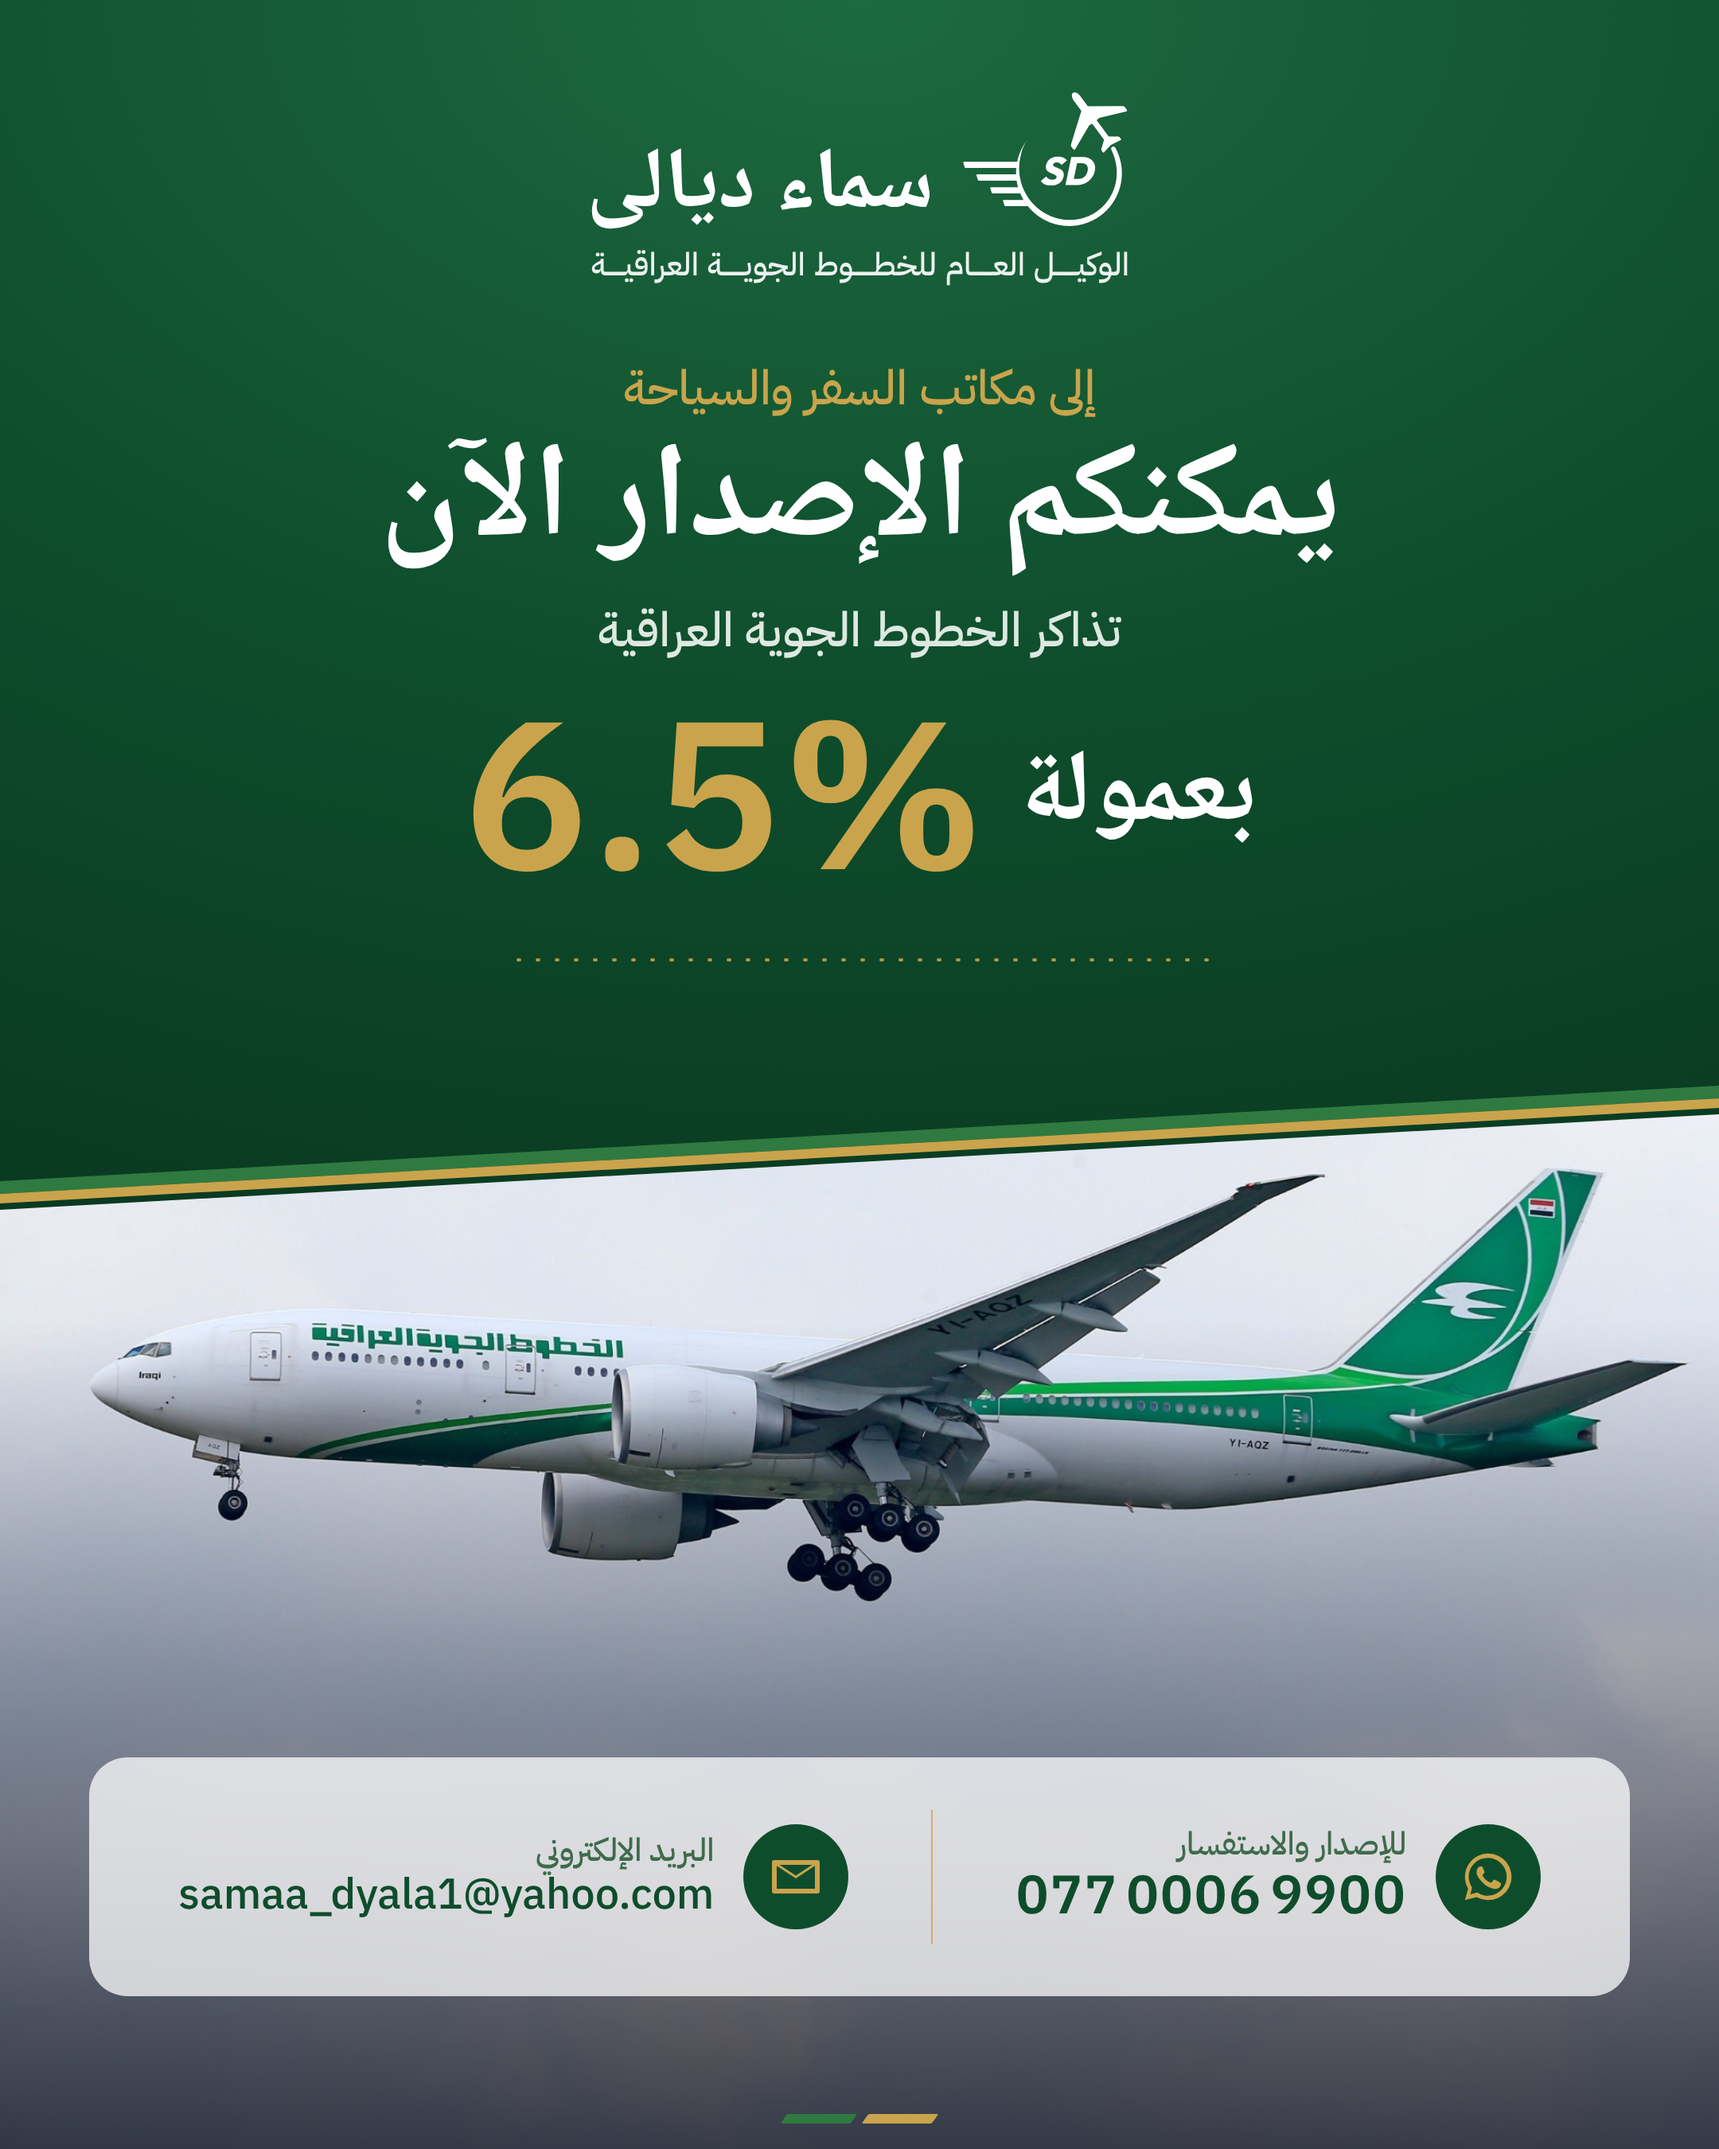
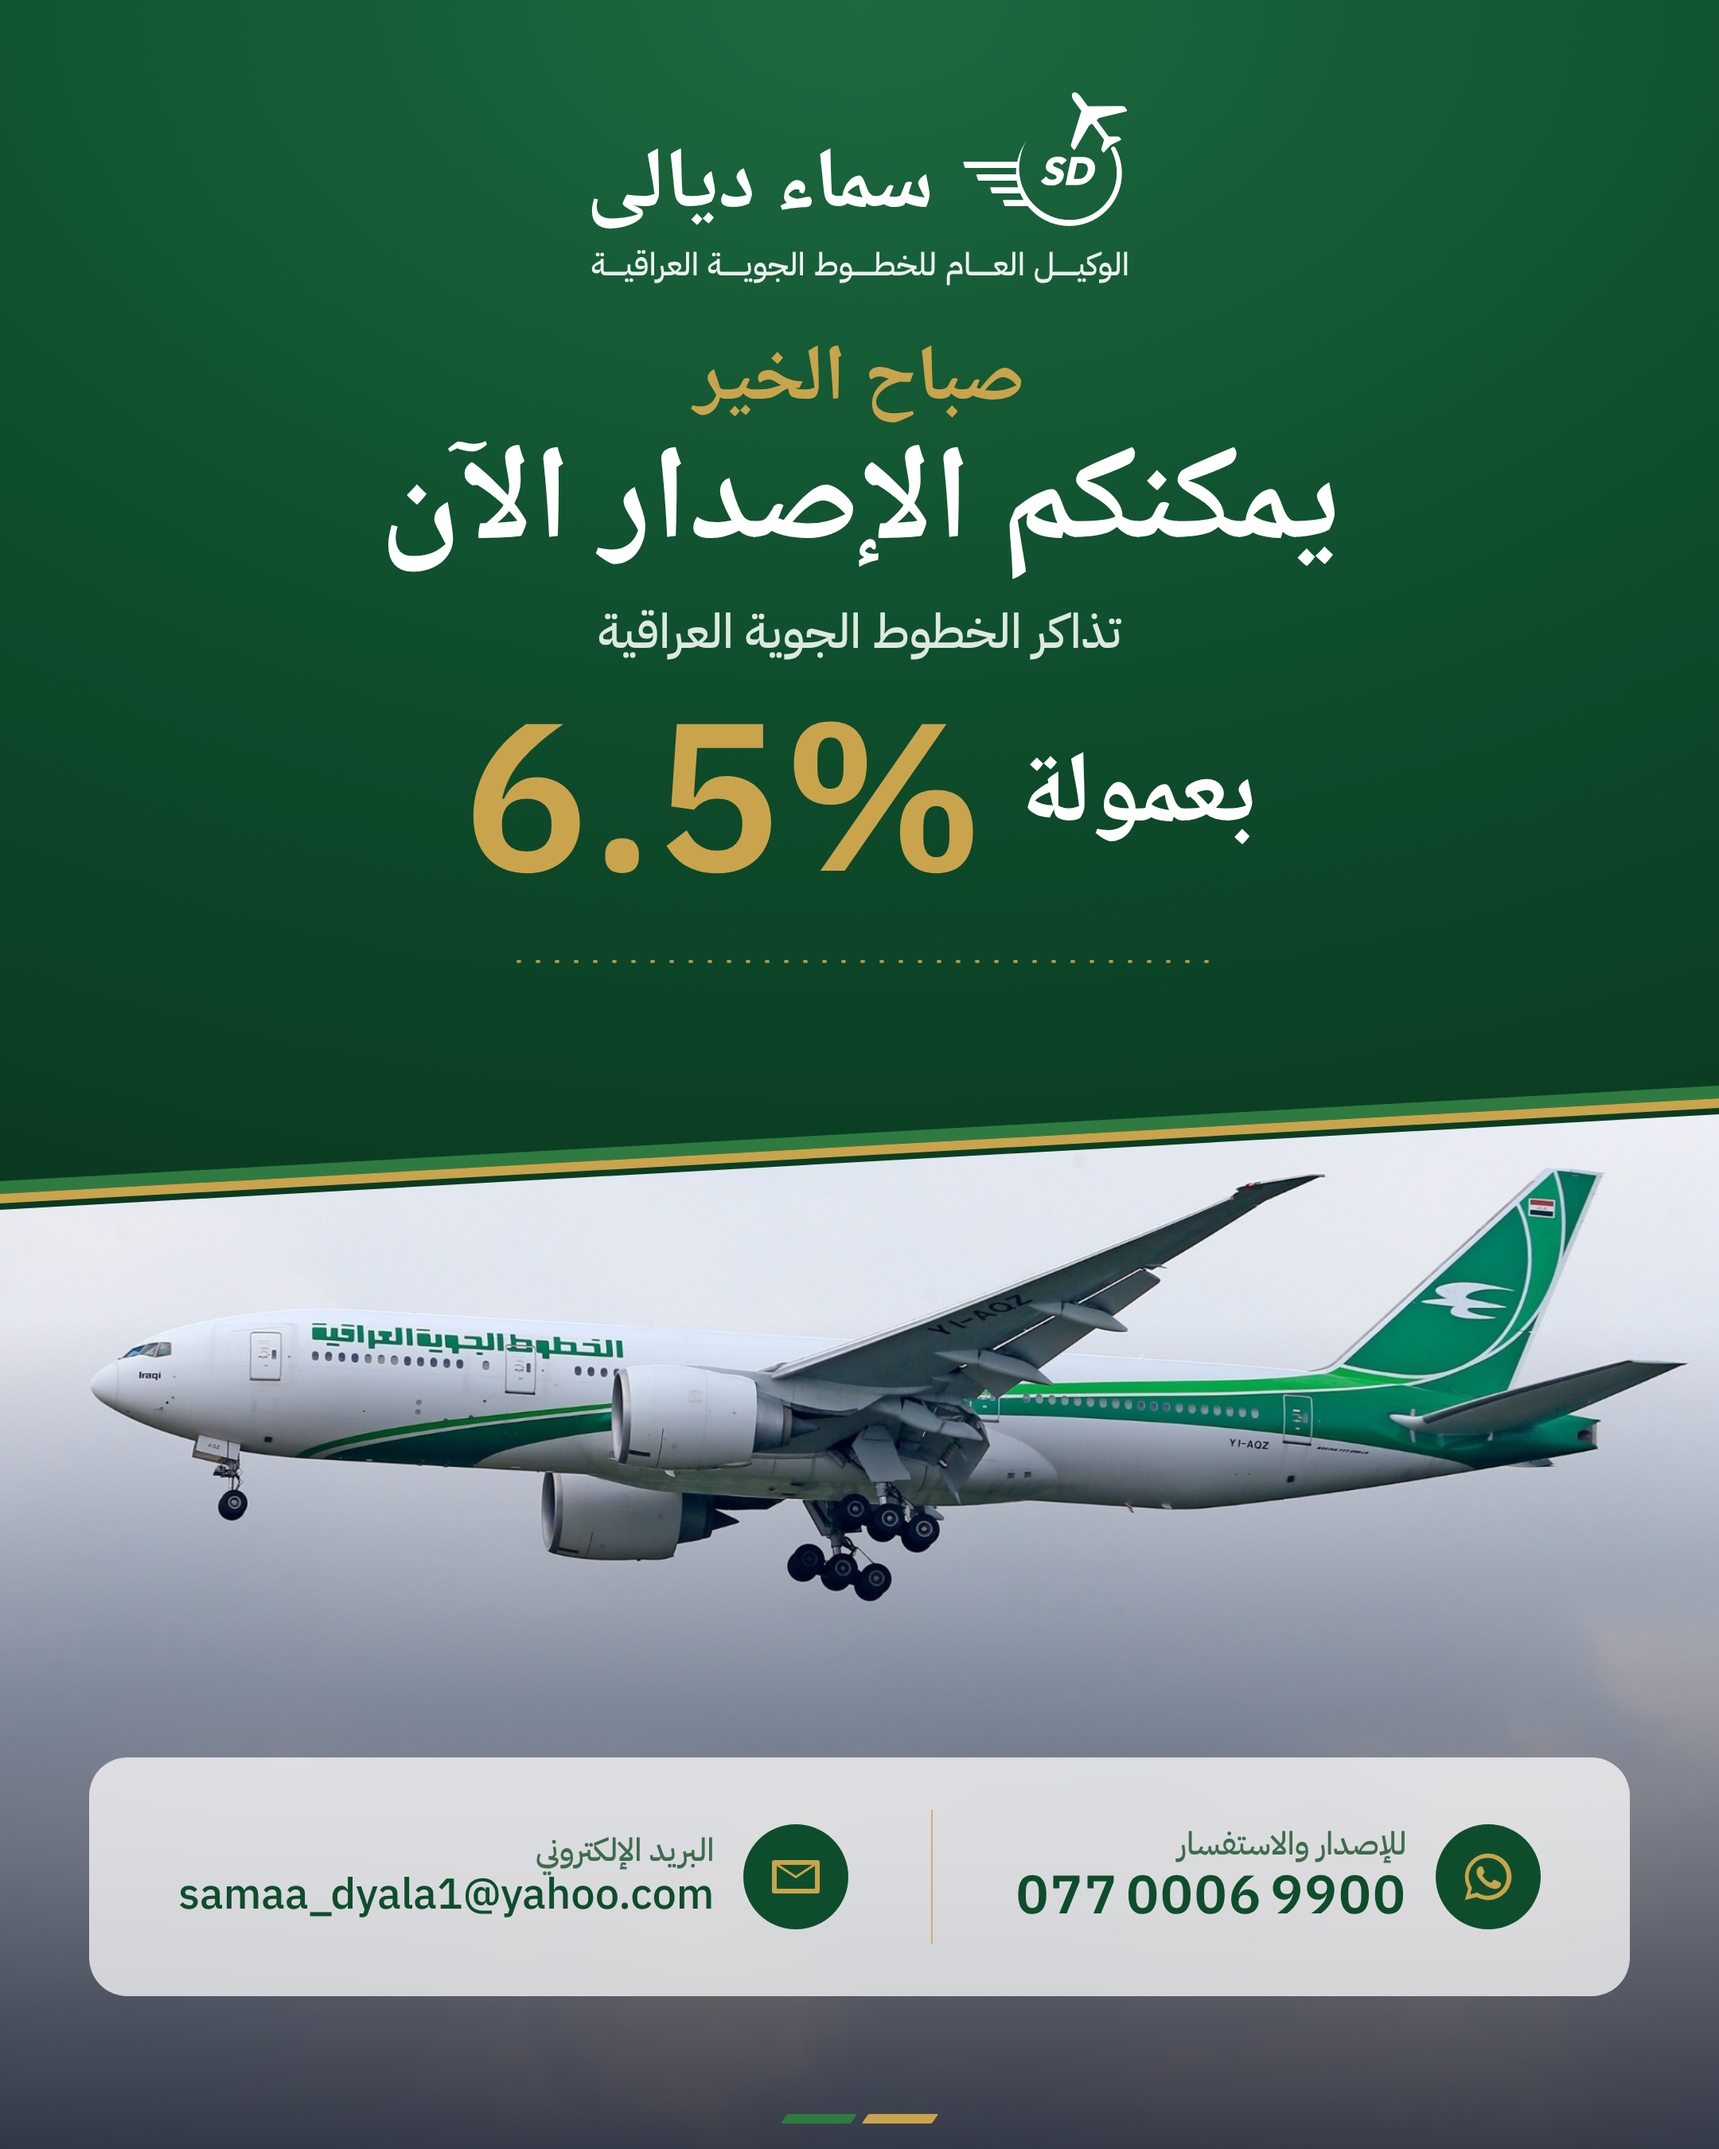
Commission post: morning greeting instead of the offices line
Claude-Session: https://claude.ai/code/session_01EprWPUJDuKvYHn821imCPv

diff --git a/09-التصاميم/عمولة الإصدار للمكاتب/إعلان.html b/09-التصاميم/عمولة الإصدار للمكاتب/إعلان.html
@@ -95,6 +95,8 @@
 
 
   .head .kicker{margin-top:48px}
+  .kicker.greet{font-family:Naskh;font-weight:700;font-size:50px;line-height:1.15;letter-spacing:0;margin-top:34px}
+  .kicker.greet + .ttl{margin-top:2px}
   .comm + .perf{margin-top:34px}
   .ttl{margin-top:8px;font-family:Naskh;font-weight:700;font-size:84px;line-height:1.15;text-align:center}
   .line{margin-top:6px;font-family:Plex;font-weight:500;font-size:30px;color:#E9F2EA;opacity:.95}
@@ -143,7 +145,7 @@
       </div>
       <div class="tag" id="tag">الوكيــــــل العــــــام للخطــــــوط الجويــــــة العراقيـــــة</div>
     </div>
-    <div class="kicker">إلى مكاتب السفر والسياحة</div>
+    <div class="kicker greet">صباح الخير</div>
     <div class="ttl">يمكنكم الإصدار الآن</div>
     <div class="line">تذاكر الخطوط الجوية العراقية</div>
     <div class="comm"><span class="w">بعمولة</span><span class="n">6.5%</span></div>

diff --git a/CLAUDE.md b/CLAUDE.md
@@ -101,7 +101,7 @@
 - المقاطع مأخوذة من تيك توك وإنستغرام، فلا تُستخدم في إعلان ممول دون إذن أصحابها، وتُزال أصواتها في المونتاج.
 
 ## منشورات المكاتب (B2B)
-- الشركة تبيع التذاكر لمكاتب السفر الأخرى، والموظفون يرسلون لها منشورات "يمكنكم الإصدار الآن". النموذج المعتمد بهويتنا: `09-التصاميم/عمولة الإصدار للمكاتب/` (من قالب الثقة): "إلى مكاتب السفر والسياحة"، "يمكنكم الإصدار الآن"، "تذاكر الخطوط الجوية العراقية"، "بعمولة 6.5%"، وصورة طائرة العراقية، وبطاقة فيها رقم الإصدار والبريد. تتغير نسبة العمولة من القالب مباشرة. ونسخة ثانية بأسلوب "النافذة" (طائرة العراقية YI-ASU تخرج من نافذة طائرة فيها سماء بغيوم، ثم "صباح الخير" بالذهبي، والنص في صناديق، بلا "إلى مكاتب السفر والسياحة"، ومسافة واضحة بين سطر الوكيل والنافذة): `09-التصاميم/عمولة الإصدار - النافذة/`. صورة الطائرة المفرغة `08-الصور/طائرة العراقية YI-ASU (مفرغة).png` (من صورة بسماء زرقاء أرسلها إحسان) تصلح لتصاميم أخرى، وصورة الغيوم `08-الصور/سماء بغيوم (عمودية).jpg`. الغيوم خارج النافذة رسوم ضبابية بيضاء لا صور مقصوصة.
+- الشركة تبيع التذاكر لمكاتب السفر الأخرى، والموظفون يرسلون لها منشورات "يمكنكم الإصدار الآن". النموذج المعتمد بهويتنا: `09-التصاميم/عمولة الإصدار للمكاتب/` (من قالب الثقة): "صباح الخير" بالذهبي، "يمكنكم الإصدار الآن"، "تذاكر الخطوط الجوية العراقية"، "بعمولة 6.5%"، وصورة طائرة العراقية، وبطاقة فيها رقم الإصدار والبريد. لا تُكتب "إلى مكاتب السفر والسياحة" في النسختين. تتغير نسبة العمولة من القالب مباشرة. ونسخة ثانية بأسلوب "النافذة" (طائرة العراقية YI-ASU تخرج من نافذة طائرة فيها سماء بغيوم، ثم "صباح الخير" بالذهبي، والنص في صناديق، بلا "إلى مكاتب السفر والسياحة"، ومسافة واضحة بين سطر الوكيل والنافذة): `09-التصاميم/عمولة الإصدار - النافذة/`. صورة الطائرة المفرغة `08-الصور/طائرة العراقية YI-ASU (مفرغة).png` (من صورة بسماء زرقاء أرسلها إحسان) تصلح لتصاميم أخرى، وصورة الغيوم `08-الصور/سماء بغيوم (عمودية).jpg`. الغيوم خارج النافذة رسوم ضبابية بيضاء لا صور مقصوصة.
 
 ## قواعد ثابتة لكل التصاميم
 - السعر كاملاً بصيغة "725,000 د.ع".
